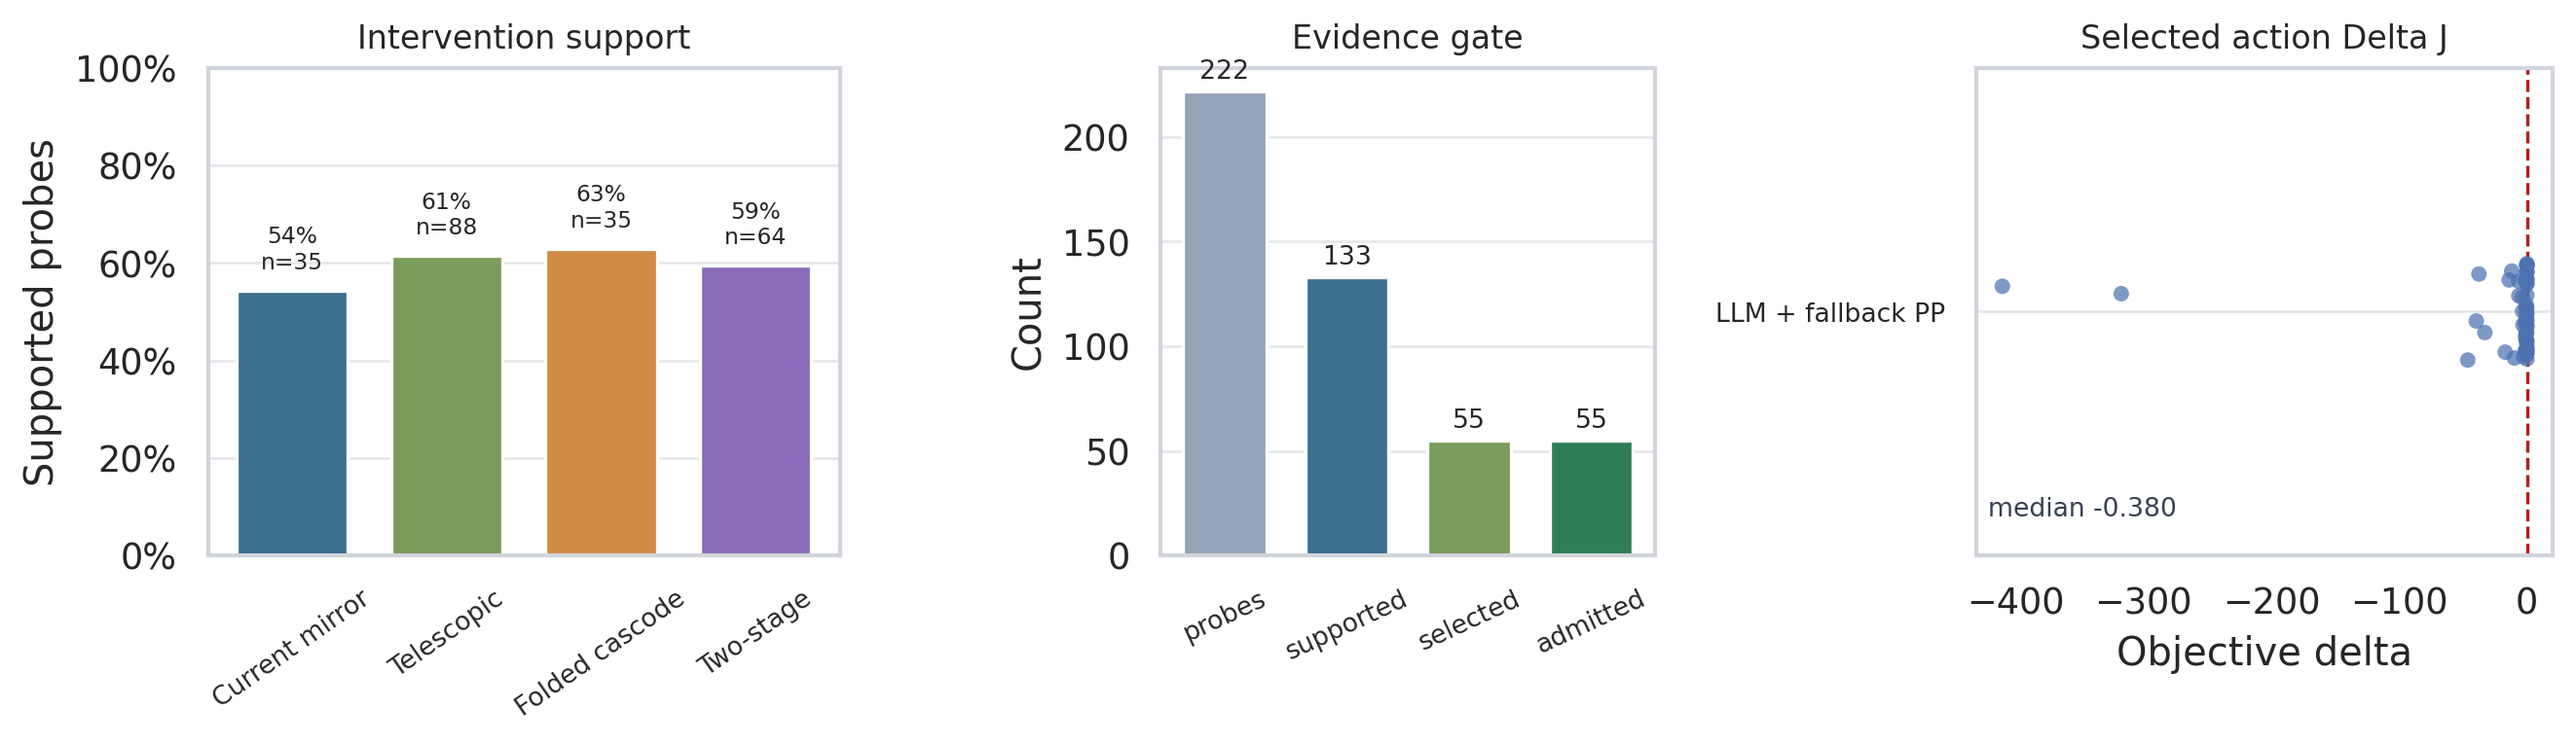
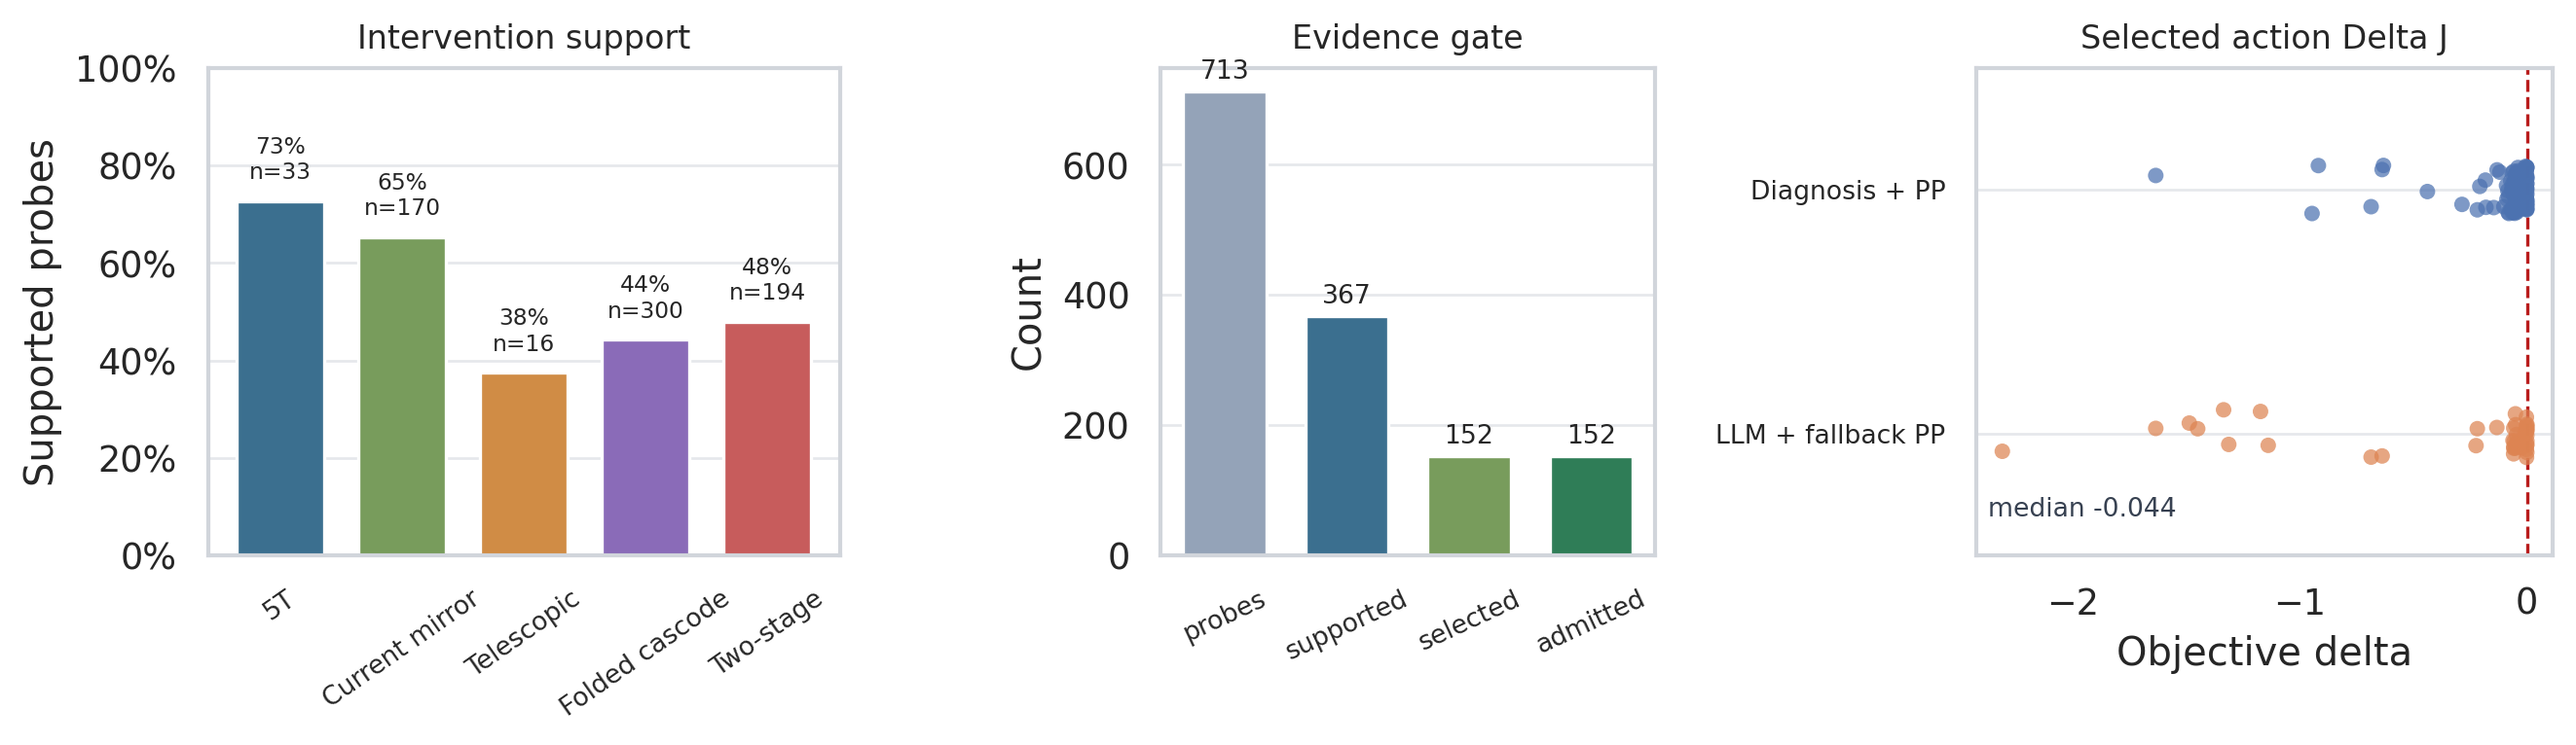
Update OTA ablation results and figures

diff --git a/scripts/plot_ablation_results.py b/scripts/plot_ablation_results.py
@@ -9,6 +9,7 @@ from pathlib import Path
 from typing import Any
 
 import matplotlib.pyplot as plt
+from matplotlib.colors import LinearSegmentedColormap
 import pandas as pd
 import seaborn as sns
 import yaml
@@ -56,6 +57,19 @@ TOPOLOGY_LABELS = {
     "two_stage_miller_ota": "Two-stage Miller",
     "source_follower_boosted_ota": "Source follower",
 }
+
+PLOT_TOPOLOGY_LABELS = {
+    "Current mirror": "Current\nmirror",
+    "Five transistor": "5T",
+    "Folded cascode": "Folded\ncascode",
+    "Telescopic": "Telescopic",
+    "Two-stage Miller": "Two-stage\nMiller",
+}
+
+BLUE_CMAP = LinearSegmentedColormap.from_list(
+    "analogdiag_ablation_blue",
+    ["#f7fbff", "#d7e9fb", "#8bbce0", "#357db7", "#113b75"],
+)
 
 
 def parse_args(argv: list[str] | None = None) -> argparse.Namespace:
@@ -111,7 +125,7 @@ def collect_run_records(manifest_path: Path) -> pd.DataFrame:
         topology = _topology_name(schema, schema_path)
         measurements = result.get("measurements", {}) or {}
         status = result.get("status", {}) or {}
-        target_status = _evaluate_targets(measurements, schema.get("targets", {}) or {})
+        target_status = _evaluate_targets(measurements, schema.get("targets", {}) or {}, max_priority=2)
         llm = _llm_usage(runs_dir)
         postprocess_events = _postprocess_events(runs_dir)
         record = {
@@ -149,11 +163,18 @@ def collect_run_records(manifest_path: Path) -> pd.DataFrame:
     return pd.DataFrame.from_records(records)
 
 
-def _evaluate_targets(measurements: dict[str, Any], targets: dict[str, Any]) -> dict[str, Any]:
+def _evaluate_targets(
+    measurements: dict[str, Any],
+    targets: dict[str, Any],
+    *,
+    max_priority: int,
+) -> dict[str, Any]:
     failed: list[str] = []
     for target_name, target in targets.items():
         metric_name = METRIC_MAP.get(target_name)
         if not metric_name or not isinstance(target, dict):
+            continue
+        if int(target.get("priority", 1) or 1) > max_priority:
             continue
         measured = _to_float(measurements.get(metric_name))
         target_min = _to_float(target.get("min"))
@@ -248,11 +269,33 @@ def summarize_runs(runs: pd.DataFrame, specs: pd.DataFrame) -> pd.DataFrame:
 def plot_success_heatmap(summary: pd.DataFrame, out_dir: Path, formats: list[str], dpi: int) -> None:
     data = summary.pivot_table(index="method", columns="topology_label", values="success_rate", aggfunc="mean")
     data = _ordered(data)
-    fig, ax = plt.subplots(figsize=(9.0, 5.2))
-    sns.heatmap(data, annot=True, fmt=".0%", cmap="crest", vmin=0, vmax=1, linewidths=0.8, linecolor="white", cbar_kws={"label": "Full spec pass rate"}, ax=ax)
-    ax.set_title("Ablation Success Rate by Method and Topology")
+    data = data.rename(columns=PLOT_TOPOLOGY_LABELS)
+    fig, ax = plt.subplots(figsize=(7.2, 3.55), constrained_layout=True)
+    sns.heatmap(
+        data,
+        annot=True,
+        fmt=".0%",
+        cmap=BLUE_CMAP,
+        vmin=0,
+        vmax=1,
+        linewidths=0.7,
+        linecolor="white",
+        annot_kws={"fontsize": 8.0, "color": "#0f172a"},
+        cbar_kws={"label": "pass rate", "shrink": 0.82},
+        ax=ax,
+    )
     ax.set_xlabel("")
     ax.set_ylabel("")
+    ax.tick_params(axis="x", rotation=0, labelsize=8)
+    ax.tick_params(axis="y", rotation=0, labelsize=8.5)
+    ax.collections[0].colorbar.ax.tick_params(labelsize=7.5)
+    ax.collections[0].colorbar.ax.yaxis.label.set_size(8)
+    for text, value in zip(ax.texts, data.to_numpy().ravel()):
+        try:
+            numeric = float(value)
+        except (TypeError, ValueError):
+            numeric = 0.0
+        text.set_color("white" if numeric >= 0.65 else "#0f172a")
     _save(fig, out_dir / "success_rate_by_method_topology", formats, dpi)
 
 

diff --git a/README.md b/README.md
@@ -101,18 +101,23 @@ counting it as a full-spec pass target.
 For the IHP two-stage Miller OTA, `Cc` is emitted as the SG13G2 `cap_cmim` MIM
 capacitor and `Rz` as the SG13G2 `rhigh` PDK resistor.
 
+Priority 1-2 targets define pass/fail in the reference regressions. Lower
+priority quantities, including power budget and saturation-margin diagnostics,
+are still measured, reported, and available to the objective/diagnosis layers.
+
 ## Verified OTA Runs
 
-The following seed-10 full-flow runs were measured with ngspice and checked
-against the targets above.
+The following 10-seed LLM-assisted full-flow runs were measured with ngspice
+and checked against the priority 1-2 targets above. Reported values are median
+measurements across the passing seeds.
 
 | Topology | Status | Iter | Gain | UGBW | PM | SR | Swing | Power |
 | --- | --- | ---: | ---: | ---: | ---: | ---: | ---: | ---: |
-| 5T OTA | pass | 3 | 27.09 dB | 44.92 MHz | 86.3 deg | 36.20 V/us | 0.778 V | 44.55 uW |
-| Current-mirror OTA | pass | 8 | 28.16 dB | 30.84 MHz | 83.3 deg | 31.95 V/us | 0.653 V | 42.71 uW |
-| Folded-cascode OTA | pass | 1 | 45.62 dB | 27.33 MHz | 63.9 deg | 19.17 V/us | 0.812 V | 25.01 uW |
-| Telescopic OTA | pass | 6 | 51.96 dB | 9.33 MHz | 60.6 deg | 6.09 V/us | 0.836 V | 20.31 uW |
-| Two-stage Miller OTA | pass | 7 | 57.75 dB | 26.46 MHz | 62.7 deg | 13.02 V/us | 0.592 V | 140.37 uW |
+| 5T OTA | 10/10 | 1 | 26.6 dB | 57.67 MHz | 84.5 deg | 50.15 V/us | 0.745 V | 63.9 uW |
+| Current-mirror OTA | 10/10 | 2 | 28.8 dB | 46.11 MHz | 68.1 deg | 53.21 V/us | 0.694 V | 81.0 uW |
+| Folded-cascode OTA | 10/10 | 2 | 46.3 dB | 50.15 MHz | 63.8 deg | 29.64 V/us | 0.868 V | 38.6 uW |
+| Telescopic OTA | 10/10 | 1 | 48.1 dB | 12.47 MHz | 63.9 deg | 6.91 V/us | 0.871 V | 18.5 uW |
+| Two-stage Miller OTA | 10/10 | 2 | 57.0 dB | 36.71 MHz | 71.7 deg | 30.09 V/us | 0.663 V | 372.4 uW |
 
 | Target achievement | Measured metrics |
 | --- | --- |
@@ -123,6 +128,22 @@ SPICE probes record whether proposed actions reduce failed violations, and the
 evidence gate records which actions are admitted.
 
 ![Diagnosis validation from local SPICE probes and objective-gated actions](docs/assets/diagnosis_validation.png)
+
+## Method Ablation
+
+The current unified ablation manifest contains 5 OTA topologies, 10 seeds, and
+4 method variants. The non-LLM methods are run independently from the LLM
+reference data and all rows are re-scored with the same priority 1-2 target
+definition.
+
+| Method | 5T | Current mirror | Folded cascode | Telescopic | Two-stage | Total |
+| --- | ---: | ---: | ---: | ---: | ---: | ---: |
+| Optimizer | 3/10 | 0/10 | 0/10 | 0/10 | 0/10 | 3/50 |
+| Opt + fallback PP | 5/10 | 1/10 | 1/10 | 3/10 | 1/10 | 11/50 |
+| Diagnosis + PP | 10/10 | 7/10 | 5/10 | 10/10 | 9/10 | 41/50 |
+| LLM + fallback PP | 10/10 | 10/10 | 10/10 | 10/10 | 10/10 | 50/50 |
+
+![Ablation pass rate by method and topology](docs/assets/success_rate_by_method_topology.png)
 
 ## Installation
 
@@ -193,8 +214,17 @@ python scripts/run_ablation.py \
 Regenerate the README figures:
 
 ```bash
-python scripts/plot_full_flow_results.py --out-dir docs/assets
-python scripts/plot_diagnosis_validation.py --out-dir docs/assets
+python scripts/plot_ablation_results.py \
+  --manifest runs/ablations_ihp130_ota_unified_seed1_10/manifest.json \
+  --out-dir docs/assets --format png
+
+python scripts/plot_full_flow_results.py \
+  --manifest runs/ablations_ihp130_ota_unified_seed1_10/manifest.json \
+  --out-dir docs/assets --format png
+
+python scripts/plot_diagnosis_validation.py \
+  --manifest runs/ablations_ihp130_ota_unified_seed1_10/manifest.json \
+  --out-dir docs/assets --format png
 ```
 
 Run tests:
